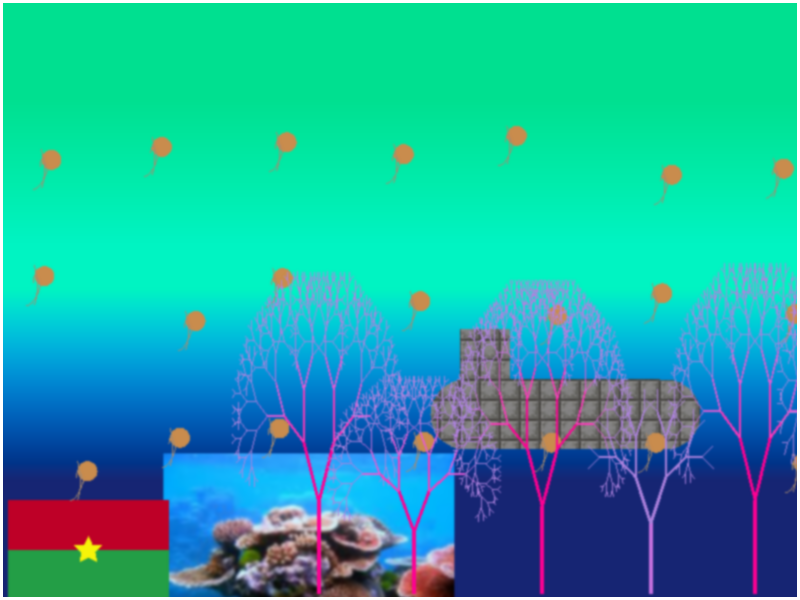
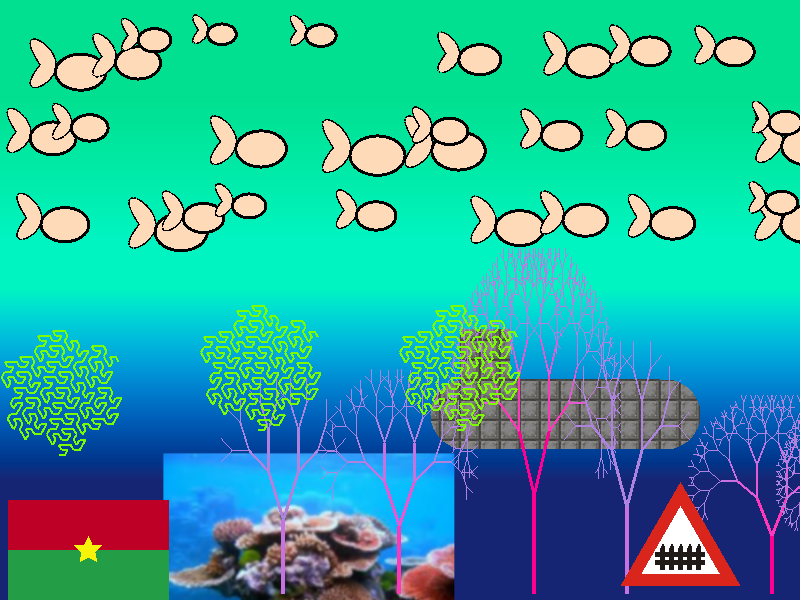
Updated big timeee.

diff --git a/LSystems.cs b/LSystems.cs
@@ -32,13 +32,6 @@ namespace ModelGraficaFull
                 {
                     Update();
                 }
-                // Scale segment length so that grammars that expand segments (e.g. F -> FF)
-                // keep reasonable visual sizes across different iteration counts.
-                // Acacia's rule doubles segments each iteration, so halve length per iteration.
-                if (numIterations > 0)
-                {
-                    this.segmentLength = this.initialSegmentLength * MathF.Pow(0.5f, numIterations);
-                }
             }
 
             abstract protected void Update();
@@ -51,7 +44,8 @@ namespace ModelGraficaFull
         {
             public override void Draw()
             {
-                PointF disp = new PointF(0, this.segmentLength);
+                PointF disp = new PointF(MathF.Cos(currentAngle) * this.segmentLength,
+                             MathF.Sin(currentAngle) * this.segmentLength);
                 for (int i = 0; i < this.contents.Length; i++)
                 {
                     float iX = pos.X;
@@ -63,6 +57,7 @@ namespace ModelGraficaFull
                             {
                                 pos.X += disp.X;
                                 pos.Y += disp.Y;
+                                g.DrawLine(Pens.Black, iX, iY, pos.X, pos.Y);
                                 break;
                             }
                         case '+':
@@ -80,13 +75,13 @@ namespace ModelGraficaFull
                                 break;
                             }
                     }
-                    g.DrawLine(Pens.Black, iX, iY, pos.X, pos.Y);
                 }
             }
 
             public void Draw(Pen p)
             {
-                PointF disp = new PointF(0, this.segmentLength);
+                PointF disp = new PointF(MathF.Cos(currentAngle) * this.segmentLength,
+                             MathF.Sin(currentAngle) * this.segmentLength);
                 for (int i = 0; i < this.contents.Length; i++)
                 {
                     float iX = pos.X;
@@ -98,6 +93,7 @@ namespace ModelGraficaFull
                             {
                                 pos.X += disp.X;
                                 pos.Y += disp.Y;
+                                g.DrawLine(p, iX, iY, pos.X, pos.Y);
                                 break;
                             }
                         case '+':
@@ -115,49 +111,9 @@ namespace ModelGraficaFull
                                 break;
                             }
                     }
-                    g.DrawLine(p, iX, iY, pos.X, pos.Y);
+                    
                 }
             }
-
-            public void Draw(Pen p, XYTransformation tr)
-            {
-                PointF disp = new PointF(0, this.segmentLength);
-                for (int i = 0; i < this.contents.Length; i++)
-                {
-                    float iX = pos.X;
-                    float iY = pos.Y;
-                    switch (this.contents[i])
-                    {
-                        case 'A':
-                        case 'B':
-                            {
-                                pos.X += disp.X;
-                                pos.Y += disp.Y;
-                                break;
-                            }
-                        case '+':
-                            {
-                                currentAngle += angle;
-                                disp.X = MathF.Cos(currentAngle) * this.segmentLength;
-                                disp.Y = MathF.Sin(currentAngle) * this.segmentLength;
-                                break;
-                            }
-                        case '-':
-                            {
-                                currentAngle -= angle;
-                                disp.X = MathF.Cos(currentAngle) * this.segmentLength;
-                                disp.Y = MathF.Sin(currentAngle) * this.segmentLength;
-                                break;
-                            }
-                    }
-                    float jX, jY;
-                    (iX, iY) = tr(iX,iY);
-                    (jX, jY) = tr(pos.X, pos.Y);
-                    g.DrawLine(p, iX, iY, pos.X, pos.Y);
-                }
-            }
-
-            
 
             protected override void Update()
             {
@@ -181,5 +137,49 @@ namespace ModelGraficaFull
             }
         }
 
+        public class Weed(Graphics g, string axiom, float angle, PointF pos, float segmentLength, int numIterations)
+            : LSystem(g, axiom, angle, pos, segmentLength, numIterations)
+        {
+            public override void Draw()
+            {
+                PointF disp = new PointF(MathF.Cos(currentAngle) * this.segmentLength,
+                             MathF.Sin(currentAngle) * this.segmentLength);
+                for (int i = 0; i < this.contents.Length; i++)
+                {
+                    float iX = pos.X;
+                    float iY = pos.Y;
+                    switch (this.contents[i])
+                    {
+                        case 'A':
+                        case 'B':
+                            {
+                                pos.X += disp.X;
+                                pos.Y += disp.Y;
+                                g.DrawLine(Pens.Black, iX, iY, pos.X, pos.Y);
+                                break;
+                            }
+                        case '+':
+                            {
+                                currentAngle += angle;
+                                disp.X = MathF.Cos(currentAngle) * this.segmentLength;
+                                disp.Y = MathF.Sin(currentAngle) * this.segmentLength;
+                                break;
+                            }
+                        case '-':
+                            {
+                                currentAngle -= angle;
+                                disp.X = MathF.Cos(currentAngle) * this.segmentLength;
+                                disp.Y = MathF.Sin(currentAngle) * this.segmentLength;
+                                break;
+                            }
+                    }
+                }
+            }
+
+            protected override void Update()
+            {
+                throw new NotImplementedException();
+            }
+        }
     }
 }

diff --git a/ExamenGrafica.cs b/ExamenGrafica.cs
@@ -21,7 +21,7 @@ namespace ModelGraficaFull
         readonly OklchColor SkyBlue = new(0.7929f, 0.3113f, 179.58f);
         readonly OklchColor SunsetFuchsia = new(0.7587f, 0.2594f, 167.93f);
         readonly OklchColor GrassGreen = new(0.312f, 0.1341f, 268.52f);
-        readonly Random random = new Random();
+        readonly Random random = new();
         public Bitmap ApplyBlur7x7(Bitmap src)
         {
             Bitmap dest = new Bitmap(src.Width, src.Height);
@@ -37,8 +37,8 @@ namespace ModelGraficaFull
         { 0,  0,  1,   2,  1,  0,  0 }
     };
 
-            int div = 1003; // Sum of all values in k
-            int radius = 3; // (7 - 1) / 2
+            int div = 1003; 
+            int radius = 3; 
 
             for (int y = radius; y < src.Height - radius; y++)
             {
@@ -122,14 +122,16 @@ namespace ModelGraficaFull
             Submarine.Draw(mainGraphics, pictureBox1.Width * 0.7f, pictureBox1.Height * 0.89f, 200f, 70f, tr);
             #endregion
             #region BezierFish
-            for (int i = 0; i < 20; i++) {
+            for (int i = 0; i < 20; i++)
+            {
                 for (int j = 0; j < 3; j++)
                 {
-                    float xOffset = i * 120f;
-                    float yOffset = j * 140f + random.NextSingle() * (-0.5f) * 40f;
-                    float radius = random.NextSingle() * 20f + 10f, angle = random.NextSingle() * MathF.Tau;
-                    PointFTransformation fishScalingAndTranslationAndRotation = (p) => new(p.X * 0.15f + xOffset + radius * MathF.Sin(angle), p.Y * 0.65f + radius * MathF.Sin(angle) + yOffset);
-                    Fish.Draw(mainGraphics, pictureBox1.Width * 0.5f, pictureBox1.Height * 0.8f, fishScalingAndTranslationAndRotation);
+
+                    float xOffset = i * 90f;
+                    float yOffset = j * 80f + random.NextSingle() * (-0.5f) * 20f;
+                    float scale = Utility<float>.Remap(random.NextSingle(), 0f, 1f, 0.4f, 0.8f);
+                    XYTransformation fishScaling = (x, y) => (-220 + xOffset + x * scale, yOffset + y * scale);
+                    Fish2.Draw(mainGraphics, tr: fishScaling, scl: scale);
                 }
             }
             #endregion
@@ -149,9 +151,28 @@ namespace ModelGraficaFull
                 Trees.drawTree(mainGraphics, new PointF(pictureBox1.Width * 0.7f, 0), 80f, treeTransformation, MathF.PI / 2, 4 + (int)(random.NextSingle() * 7));
             }
             #endregion
+            #region RoadSign
+            float xScl = 0.5f, yScl = 0.5f;
+            RoadSign.Draw(mainGraphics, (x, y) => (pictureBox1.Width * 0.6f + x * xScl, pictureBox1.Height * 0.8f + y * yScl));
+            #endregion
+            #region LSystem
+            using Pen gosperPen = new(Color.LawnGreen, 2);
+            for (int i = 0; i < 3; i++) { 
+                float rx = random.NextSingle() * 20f, ry = random.NextSingle() * 50f + (i==3 ? 70f : 0f);
+                LSystems.Gosper gosperAlgae = new(g: mainGraphics,
+                                                  axiom: "A",
+                                                  angle: MathF.PI / 3,
+                                                  pos: new PointF(pictureBox1.Width * 0.05f + i * 200f + rx,
+                                                                  pictureBox1.Height * 0.7f + ry),
+                                                  segmentLength: 6f,
+                                                  numIterations: 3);
+                gosperAlgae.Draw(p: gosperPen);
+            }
+            #endregion
             #region FunnyBlur
             mainBitmap = ApplyBlur7x7(mainBitmap);
             #endregion
+
             pictureBox1.Image = mainBitmap;
             mainBitmap.Save("C:\\Users\\razvan\\source\\repos\\ModelGraficaFull\\ExamenGrafica2026.png");
         }

diff --git a/RoadSign.cs b/RoadSign.cs
@@ -1,0 +1,36 @@
+using System;
+using System.Collections.Generic;
+using System.Drawing.Imaging.Effects;
+using System.Text;
+
+namespace ModelGraficaFull
+{
+    public class RoadSign
+    {
+        public static void Draw(Graphics mainGraphics, XYTransformation tr)
+        {
+            using Pen red = new Pen(Color.FromArgb(255, 218, 37, 28), 12);
+            using Brush white = new SolidBrush(Color.White);
+            using Brush black = new SolidBrush(Color.FromArgb(31, 26, 23));
+            PointF[] trianglePoints = [new(300f, 200f), new(500f, 200f), new(400f, 26.794f)];
+            trianglePoints = trianglePoints.Select(p => tr(p.X, p.Y)).Select(tp => new PointF(tp.x, tp.y)).ToArray();
+            mainGraphics.FillPolygon(white, trianglePoints);
+            mainGraphics.DrawPolygon(red, trianglePoints);
+            float l1 = (trianglePoints[1].X - trianglePoints[0].X) / 2;
+            for (int i = 0; i < 5; i++) {
+                XYTransformation tr2 = (x,y) => tr(x*0.5f + 18f * i + 210f,y*0.9f + 90f);
+                DrawStakeShape(mainGraphics, tr2);    
+            }
+            mainGraphics.FillRectangle(black, trianglePoints[0].X + l1 / 2, trianglePoints[0].Y - 28f, l1 * 1f, 5f);
+            mainGraphics.FillRectangle(black, trianglePoints[0].X + l1/2, trianglePoints[0].Y - 20f, l1 * 1f, 5f);
+        }
+
+        public static void DrawStakeShape(Graphics mainGraphics, XYTransformation tr)
+        {
+            using Brush black = new SolidBrush(Color.FromArgb(31, 26, 23));
+            PointF[] stakePoints = [new(320, 100), new(320,50), new(310,40), new(300,50), new(300,100)];
+            stakePoints = stakePoints.Select(p => tr(p.X, p.Y)).Select(tp => new PointF(tp.x, tp.y)).ToArray();
+            mainGraphics.FillPolygon(black, stakePoints);
+        }
+    }
+}

diff --git a/Fish2.cs b/Fish2.cs
@@ -1,0 +1,27 @@
+namespace ModelGraficaFull
+{
+    public class Fish2
+    {
+        public static void Draw(Graphics mainGraphics, Func<float, float, (float x, float y)> tr, float scl)
+        {
+            using Pen pen = new(Color.Black, 3);
+            using Brush brush = new SolidBrush(Color.PeachPuff);
+            List<PointF> tail = [];
+            Bezier.DrawDegreeNBezier(pen, new List<PointF>([new(360,90), new(320,140), new(380,120), new(380,90)]).Select((PointF p) => {
+                (float xx, float yy) = tr(p.X, p.Y);
+                return new PointF(xx, yy);
+            }).ToList(), mainGraphics, resolution: 30);
+            tail.AddRange(Bezier.cachedPoints!);
+            mainGraphics.FillPolygon(brush, [..tail]);
+            Bezier.DrawDegreeNBezier(pen, new List<PointF>([new(360,90), new(320,30), new(380,60), new(380,90)]).Select((PointF p) => {
+                (float xx, float yy) = tr(p.X, p.Y);
+                return new PointF(xx, yy); 
+            }).ToList(), mainGraphics, resolution: 30);
+            tail.AddRange(Bezier.cachedPoints!);
+            mainGraphics.FillPolygon(brush, [.. tail]);
+            (float elx, float ely) = tr(450f, 100f);
+            mainGraphics.FillEllipse(brush, elx - (70f * scl), ely - (50f * scl)/2, 70f * scl, 50f * scl);
+            mainGraphics.DrawEllipse(pen, elx - (70f * scl), ely - (50f * scl) / 2, 70f * scl, 50f * scl);
+        }
+    }
+}

diff --git a/Bezier.cs b/Bezier.cs
@@ -6,6 +6,7 @@ namespace ModelGraficaFull
 {
     public static class Bezier
     {
+        public static List<PointF>? cachedPoints = null;
         public static void DrawDegree1Bezier(Pen p, PointF p1, PointF p2, Graphics g, int resolution = 100)
         {
             List<PointF> points = [];
@@ -83,6 +84,7 @@ namespace ModelGraficaFull
                 points.Add(__underlying_bezier_lerp(controlPoints, Utility2.clamp(0f, 1f, t))[0]);
                 t += dt;
             }
+            cachedPoints = points;
             for (int i = 0; i < points.Count - 1; i++)
             {
                 g.DrawLine(p, points[i], points[i + 1]);
@@ -98,6 +100,7 @@ namespace ModelGraficaFull
                 points.Add(__underlying_bezier_lerp(controlPoints, Utility2.clamp(0f, 1f, t))[0]);
                 t += dt;
             }
+            cachedPoints = points;
             points = [.. points.Select(tr)];
             for (int i = 0; i < points.Count - 1; i++)
             {

diff --git a/Form1.cs b/Form1.cs
@@ -78,7 +78,7 @@ namespace ModelGraficaFull
 
                 XYTransformation cloudTransform = (x, y) => (x + xOffset, y + yOffset);
                 Gosper gosper = new Gosper(mainGraphics, "A", MathF.PI / 3, new PointF(i*(pictureBox1.Width/ totalClouds), pictureBox1.Height / 2 - 50f - (float)random.NextDouble() * 20f), 20f, 4);
-                gosper.Draw(new Pen(Color.FromArgb(20, Color.White), 10), cloudTransform);
+                //gosper.Draw(new Pen(Color.FromArgb(20, Color.White), 10), cloudTransform);
             }
             #endregion
             #region Birds
